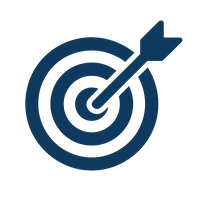
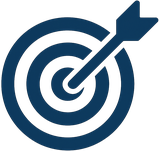
Adição dos ícones no sobre nós

diff --git a/index.html b/index.html
@@ -121,17 +121,18 @@
     
             <div class="cards-container">
                 <div class="card">
-                    <h2>Nossa <span class="highlight-darkblue">MISSÃO</span></h2>
+                    <h2><img src="assets/tiro_ao_alvo.png" alt="tiro ao alvo" style="width: 50px; height: 47,48; margin-top: -8px;">
+                    Nossa <span class="highlight-darkblue">MISSÃO</span></h2>
                     <p>Ajudar as organizações a atingirem seus planos estratégicos ao transformar ideias em soluções por modelagem.</p>
                 </div>
-    
                 <div class="card">
-                    <h2>Nossa <span class="highlight-darkblue">VISÃO</span></h2>
+                        <h2><img src="assets/binoculo.png" alt="binóculo" style="width: 50px; height: 40,75px; margin-right: 10px;">Nossa <span class="highlight-darkblue">VISÃO</span></h2>
                     <p>Ser uma consultoria de referência em modelagem e data Science no mercado brasileiro.</p>
                 </div>
     
                 <div class="card">
-                    <h2>Nossos <span class="highlight-darkblue">VALORES</span></h2>
+                    <h2><img src="assets/bussola.png" alt="bússola" style="width: 42px; height: 42px; margin-right: 3px;">
+                        Nossos <span class="highlight-darkblue">VALORES</span></h2>
                     <ul>
                         <li>Integridade</li>
                         <li>Responsabilidade</li>
